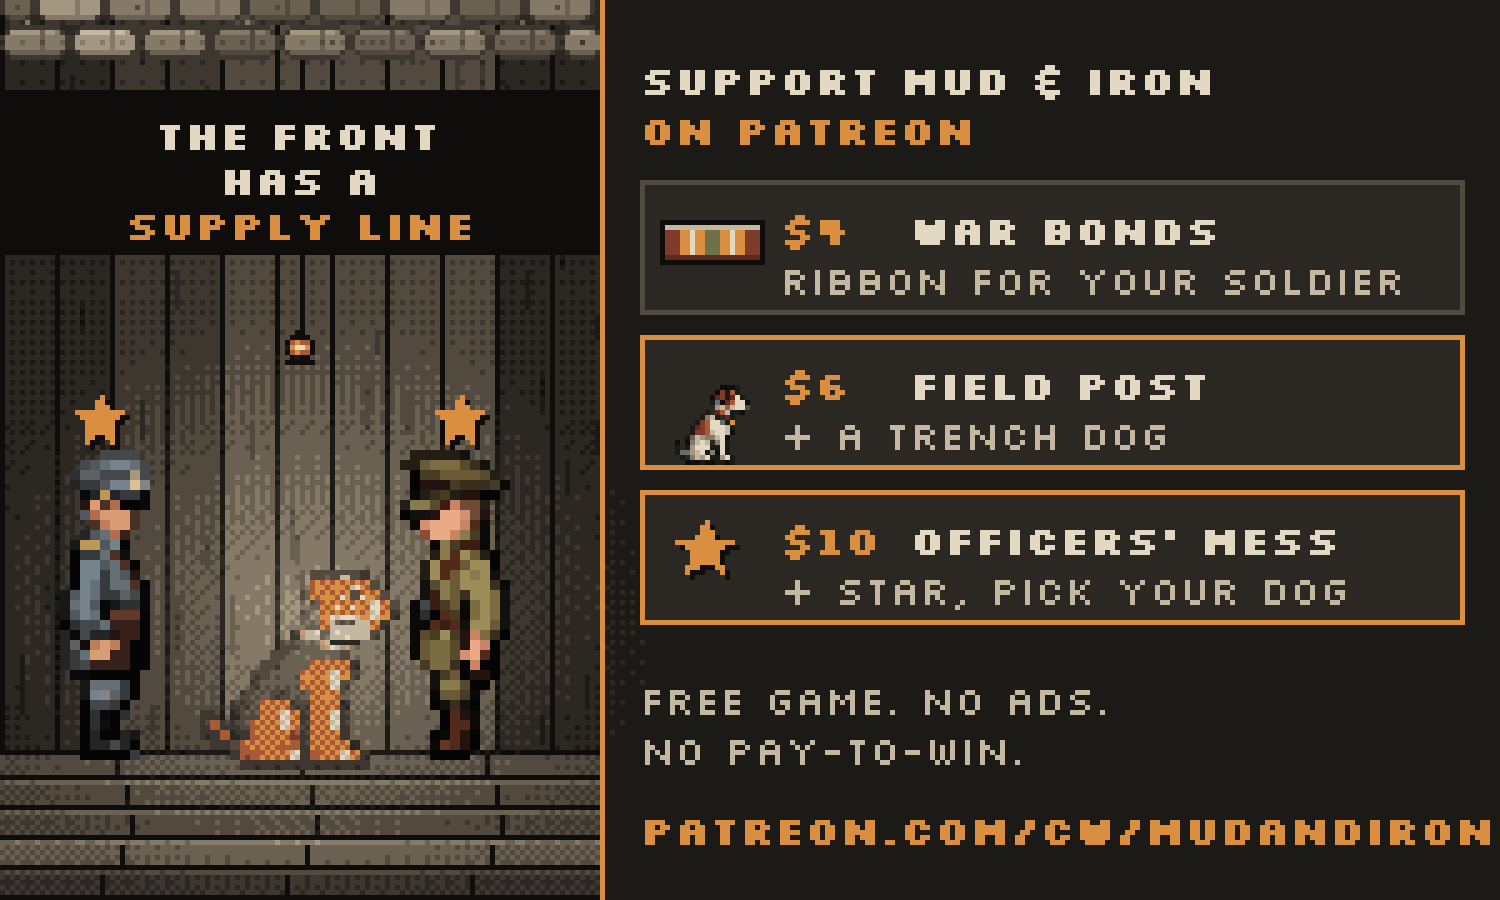
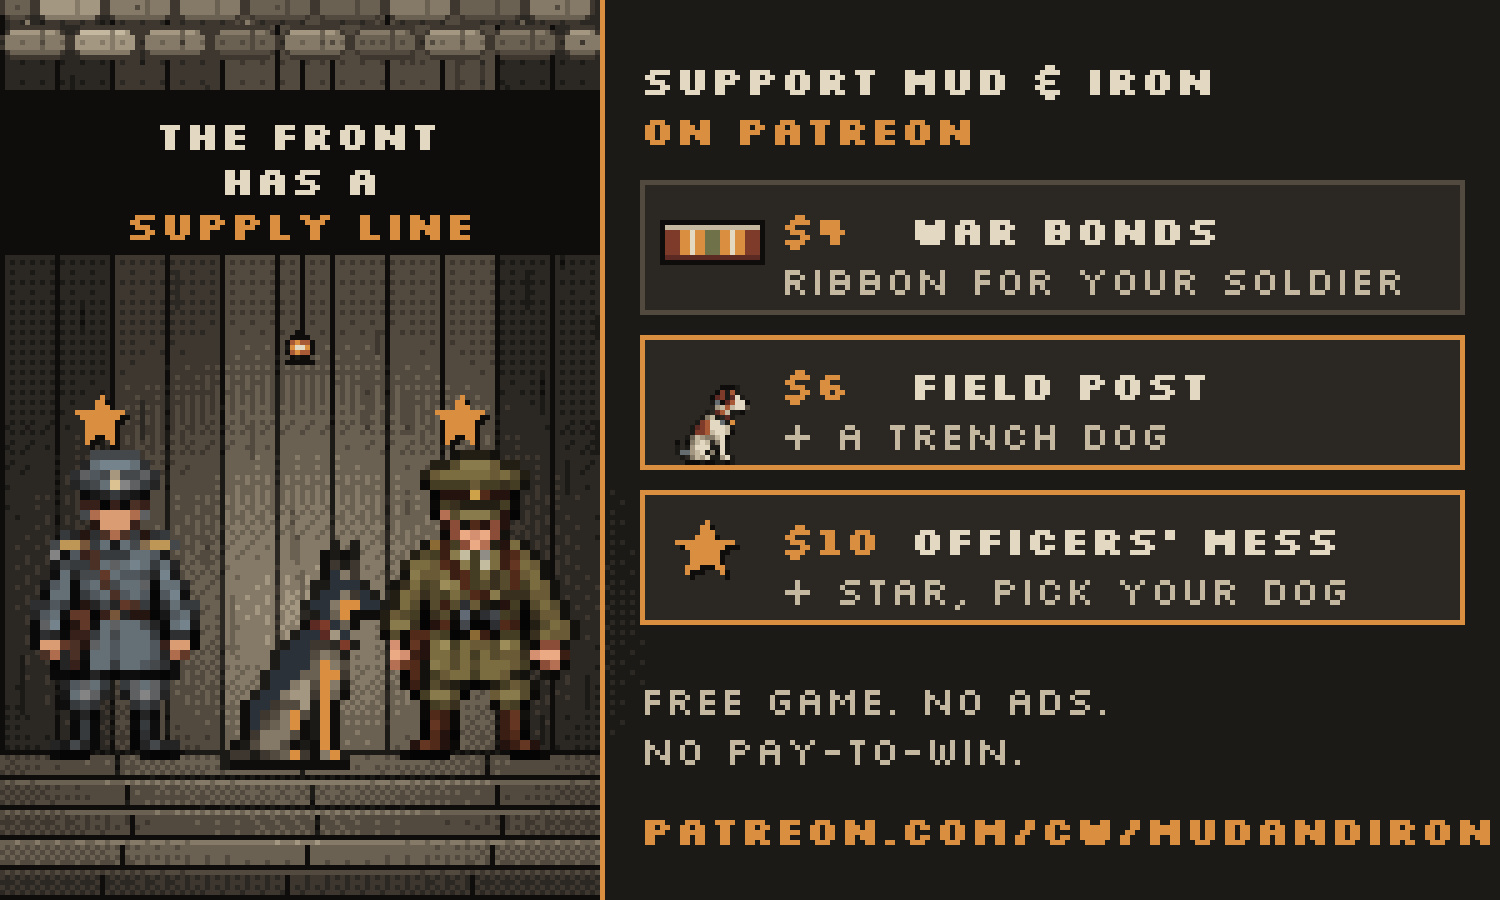
Patreon obrázek: důstojníci čelem dopředu, pes ze hry bez přebarvení
Claude-Session: https://claude.ai/code/session_01FWoRCTpAmETsDNoNBNsz1y

Changed region(s): [[0.0, 0.4978, 0.3987, 0.8711]]

diff --git a/marketing/make_patreon_dog.py b/marketing/make_patreon_dog.py
@@ -30,13 +30,11 @@ def post_tiers():
     d = ImageDraw.Draw(im)
     d.line((0, 150, SW, 150), fill=P["ink"])
     lamp(im, 60, 70, top=12)
-    im.alpha_composite(up(sprite("hegemony_officer_east.png"), 2), (-10, 90))
-    im.alpha_composite(up(sprite("concord_officer_west.png"), 2), (60, 90))
-    im.alpha_composite(up(dog("airedale"), 2), (28, 90))  # pes Officers' Mess pod stolem
-    d = ImageDraw.Draw(im)
-    mug(d, 66, 123, 0)
+    im.alpha_composite(up(sprite("hegemony_officer_south.png"), 2), (-8, 90))  # důstojníci čelem k divákovi
+    im.alpha_composite(up(sprite("concord_officer_south.png"), 2), (64, 90))
     light(im, 60, 122, 70, strength=1.0, steps=3)
     shade(im, (0, 0, SW, H), strength=0.55)
+    im.alpha_composite(up(dog("shepherd"), 2), (28, 90))  # náš pes ze hry, až po světle a stínu (bez přebarvení)
     d = ImageDraw.Draw(im)
     star(d, 20, 84)
     star(d, 92, 84)
